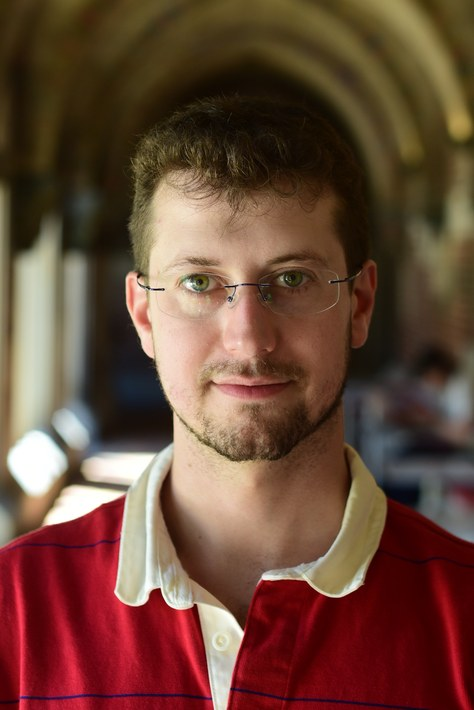
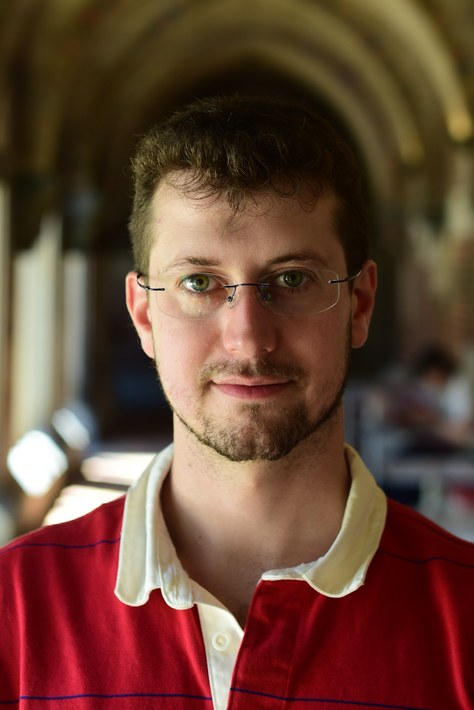
WIP: portrait back to original exposure, same crop

Changed region(s): [[0.384, 0.2479, 0.5907, 0.4648]]

diff --git a/index.html b/index.html
@@ -44,7 +44,7 @@
         </section>
       </div>
       <figure class="card">
-        <img src="images/pedro.jpg?v=3" width="474" height="710" alt="Portrait of Pedro Adami Oliboni">
+        <img src="images/pedro.jpg?v=4" width="474" height="710" alt="Portrait of Pedro Adami Oliboni">
         <figcaption>
           PhD Student in Economics<br>
           The University of Chicago<br>
